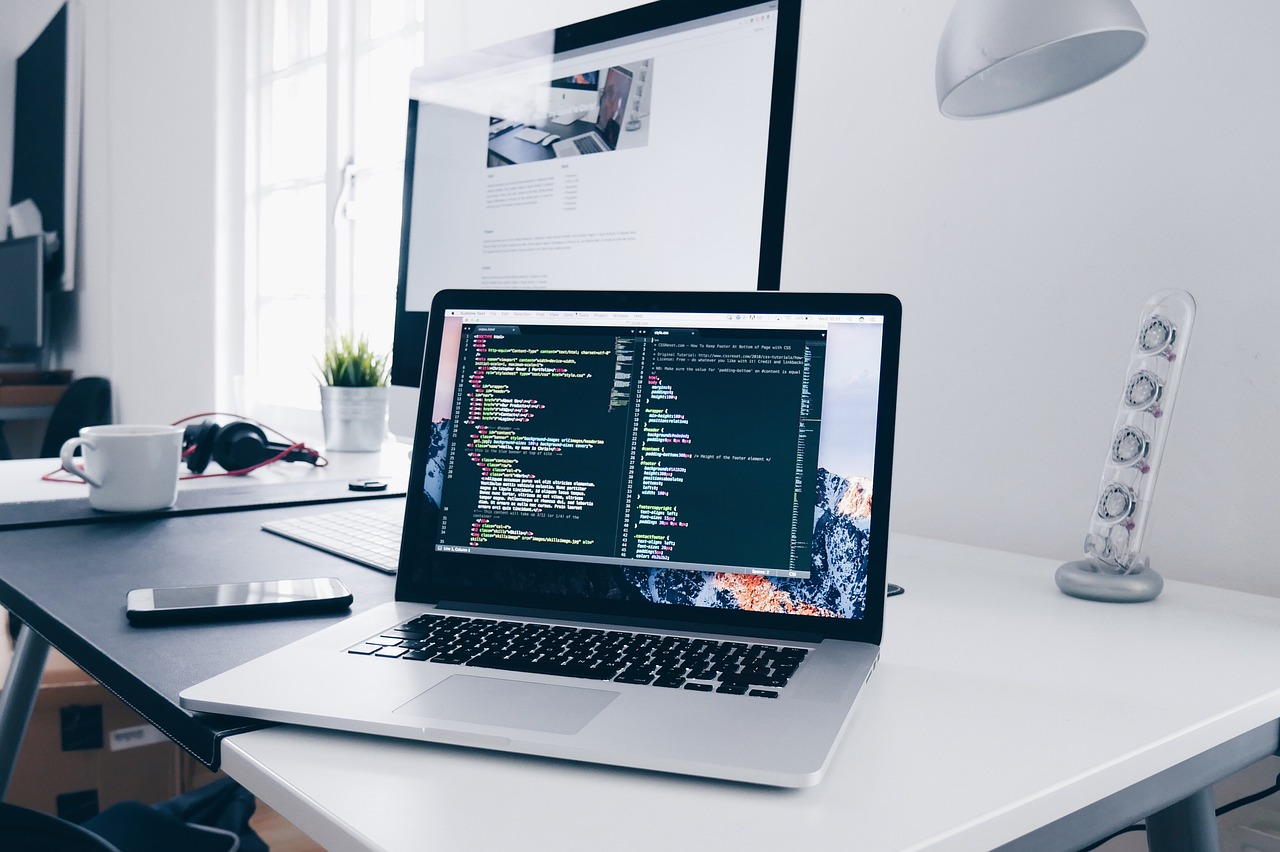
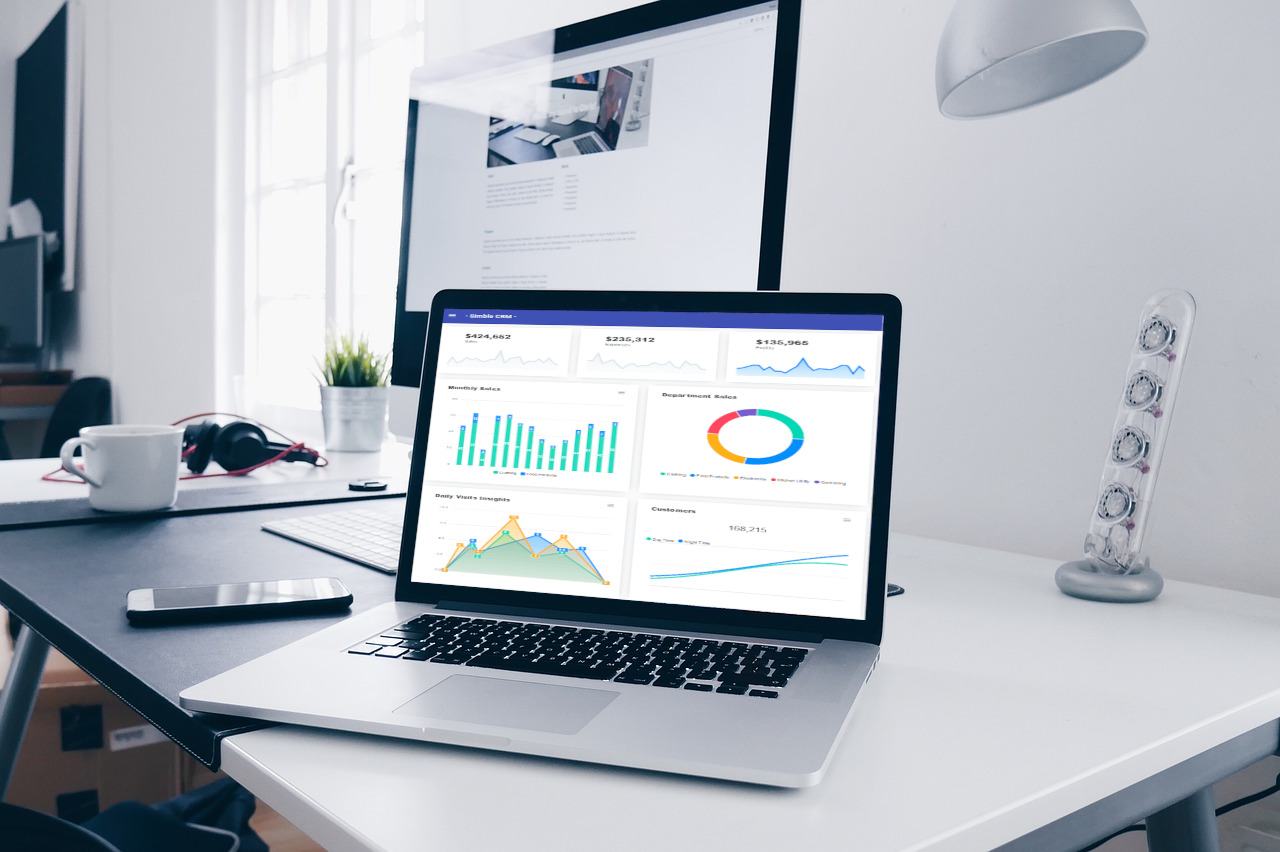
change project

Changed region(s): [[0.3125, 0.3357, 0.6875, 0.7324]]

diff --git a/src/app/portfolio/portfolio.component.ts b/src/app/portfolio/portfolio.component.ts
@@ -35,9 +35,9 @@ export class PortfolioComponent {
     {
       title: 'Simple-CRM',
       types: 'Angular | TypeScript | SCSS',
-      img: './assets/img/pokedex2.jpg',
+      img: './assets/img/crm2.jpg',
       description: 'A Simple Customer Relationship Management.',
-      ref: 'https://bastian-riedmann.developerakademie.net/pokedex/index.html',
+      ref: 'https://bastian-riedmann.developerakademie.net/simple-crm/index.html',
       github: 'https://github.com/BastianR188/Simple-CRM',
     },
     {
